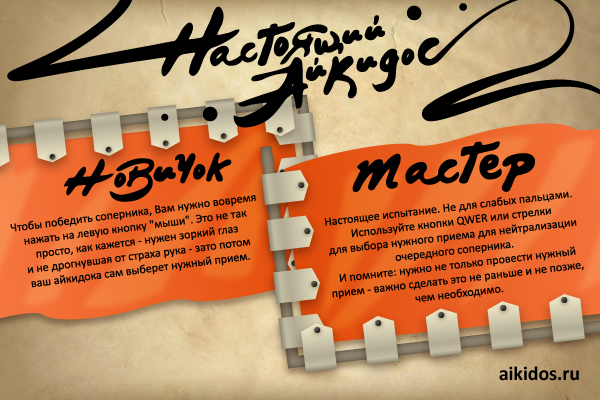
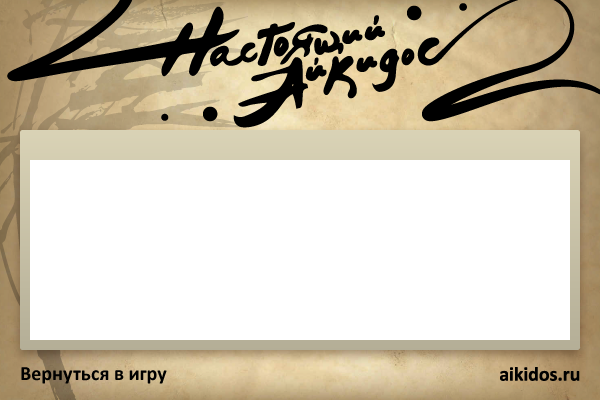
style-feat: change start window, made canvas some adaptive

diff --git a/src/components/AikidosGame.vue b/src/components/AikidosGame.vue
@@ -7,8 +7,10 @@
 <script>
 // import { loadScript } from "vue-plugin-load-script";
 
-var CANVAS_WIDTH = 600;
-var CANVAS_HEIGHT = 400;
+// Растягиваем канвас по размеру окна
+var CANVAS_WIDTH = window.innerWidth; // 600
+var CANVAS_HEIGHT = window.innerHeight; // 400
+var FIGHT_AREA_WIDTH = 400;
 var FPS = 25;
 var INC = 0.5;
 var ACCUMULATOR = 0;
@@ -135,6 +137,10 @@ function CResourceImage(src) {
     };
     //	this._image.addEventListener('load',function() { on_load.on_res_load.call(on_load) },false);
     this._image.src = this._src;
+    if (this._src.indexOf("novice_background") != -1) {
+      this._image.style = "min-width: 6000px; object-fit: cover";
+      console.log(this._image.style);
+    }
   };
 }
 
@@ -386,7 +392,7 @@ function draw_number(res, x, y, w, h, score) {
   var digit;
   var i = 1;
 
-  if (score == 0)
+  if (score == 0) {
     context2D.drawImage(
       resource_manager.res_list[res]._image,
       0,
@@ -398,7 +404,7 @@ function draw_number(res, x, y, w, h, score) {
       w,
       h
     );
-  else
+  } else
     while (digit_score) {
       digit_score = (digit_score / 10) | 0;
       pow10 = Math.pow(10, i);
@@ -424,12 +430,24 @@ function render() {
   context2D.fillStyle = "#000000";
   context2D.fillRect(0, 0, CANVAS_WIDTH, CANVAS_HEIGHT);
   if (stage == -2 || pre_load_timer >= 0) {
-    context2D.drawImage(resource_manager.res_list[1]._image, 0, 0);
+    // Растягиваем стартовый загрузочный экран
+    context2D.drawImage(
+      resource_manager.res_list[1]._image,
+      0,
+      0,
+      CANVAS_WIDTH,
+      600
+    );
+    //  context2D.drawImage(
+    //   resource_manager.res_list[1]._image,
+    //   0,
+    //   0,
+    // );
 
     context2D.save();
-    context2D.translate(414 + 15.5, 343 + 14);
+    context2D.translate(414 + 25.5, 343 + 14);
     context2D.rotate(load_angle);
-    context2D.drawImage(resource_manager.res_list[0]._image, -15.5, -14);
+    context2D.drawImage(resource_manager.res_list[0]._image, -25.5, -14);
     context2D.restore();
     load_angle -= Math.PI / 20;
 
@@ -437,7 +455,16 @@ function render() {
 
     if (pre_load_timer > 2000 && stage == -1) pre_load_timer = -1;
   } else if (stage == -1) {
-    context2D.drawImage(resource_manager.res_list[2]._image, 0, 0);
+    // Растягиваем меню
+    // context2D.drawImage(resource_manager.res_list[2]._image, 0, 0);
+    context2D.drawImage(
+      resource_manager.res_list[2]._image,
+      0,
+      0,
+      CANVAS_WIDTH,
+      600
+    );
+
     if (show_masters)
       context2D.drawImage(resource_manager.res_list[6]._image, 0, 354);
     if (novice_highlight)
@@ -517,10 +544,13 @@ function render() {
 		context2D.fillStyle='#112233';
 		roundRect(context2D,10,10,100,100,3,true,false);*/
   } else {
+    // Растягиваем фон во время боя по размеру канваса
     context2D.drawImage(
       resource_manager.res_list[current_game_type == 0 ? 4 : 5]._image,
       0,
-      0
+      0,
+      CANVAS_WIDTH,
+      FIGHT_AREA_WIDTH
     );
     if (current_game_type == 0) {
       if (game_mouse)
@@ -543,7 +573,9 @@ function render() {
 
     var score = ((current_score * FPS) / 1000) | 0;
 
-    draw_number(12, 580, 20, 24, 32, score);
+    // Перемещаем отрисовку очков к левому углу
+    draw_number(12, CANVAS_WIDTH - 30, 20, 24, 32, score);
+    // draw_number(12, CANVAS_WIDTH - 100, 20, 24, 32, score);
 
     var qu = ((score / QU_DELTA) | 0) + 1;
     qu = Math.max(11 - qu, 1);
@@ -763,14 +795,15 @@ function OnMouseMove(e) {
     show_masters = false;
     choose_url = false;
 
+    // Убираем подсветку карточек режимов игры и кнопки списка лучших мастеров
     if (x > 4 && y > 139 && x < 266 && y < 283) {
-      novice_highlight = true;
+      // novice_highlight = true;
     }
     if (x > 311 && y > 161 && x < 595 && y < 308) {
-      master_highlight = true;
+      // master_highlight = true;
     }
     if (x > 20 && y > 363 && x < 236 && y < 386) {
-      show_masters = true;
+      // show_masters = true;
     }
     if (x > 499 && y > 363 && x < 580 && y < 386) {
       choose_url = true;
@@ -843,8 +876,9 @@ function OnMouseUp(e) {
   var x = e.offsetX == undefined ? e.layerX : e.offsetX;
   var y = e.offsetY == undefined ? e.layerY : e.offsetY;
 
+  // Перемещаем кнопку для начала игры в нижний левый угол
   if (stage == -1 && pre_load_timer < 0) {
-    if (x > 4 && y > 139 && x < 266 && y < 283) {
+    if (x > 10 && y > 550 && x < 275 && y < 600) {
       start_game(0);
     }
     if (x > 311 && y > 161 && x < 595 && y < 308) {

diff --git a/public/aikidos/css/core.css b/public/aikidos/css/core.css
@@ -1,28 +1,45 @@
-#game{
-	/*position: relative;
+#game {
+  /*position: relative;
 	left: 0;
 	top: 00px;*/
-	width: 600px;
-	height: 400px;
+  /* width: 600px; */
+  /* height: 400px; */
+  width: 100vw;
+  height: 100vh;
 }
 
-#game canvas{ 
-	/*position: relative;
+#game canvas {
+  /*position: relative;
 	top: 0;
 	left: 0;
 	z-index: 0;*/
 }
 
-#game input{ 
-	position: relative;
-	border: 10px solid black; 
-	outline:none;
-	text-align:center;
-	z-index: 1;
+#game input {
+  position: relative;
+  border: 10px solid black;
+  outline: none;
+  text-align: center;
+  z-index: 1;
 }
 
-.page{ 
-	position: relative;
-	width: inherit;
-	height: inherit;
+.page {
+  position: relative;
+  width: inherit;
+  height: inherit;
 }
+
+* {
+  margin: 0;
+  padding: 0;
+} /* to remove the top and left whitespace */
+
+html,
+body {
+  width: 100%;
+  height: 100%;
+} /* just to be sure these are full screen*/
+
+canvas {
+  display: block;
+} /* To remove the scrollbars */

diff --git a/public/js/core.js b/public/js/core.js
@@ -1073,7 +1073,9 @@ function pre_resource_loaded() {
 
   timer = setInterval(draw, 1000 / FPS);
 
-  resource_manager.add_image(REL_PATH + "images/choose_game_type.png");
+  // resource_manager.add_image(REL_PATH + "images/choose_game_type.png"); // 2
+
+  resource_manager.add_image(REL_PATH + "images/start_screen.png"); // 2. Вместо того меню что было подгружаем это изображение
   resource_manager.add_image(REL_PATH + "images/records_background.png");
   resource_manager.add_image(REL_PATH + "images/novice_background.png");
   resource_manager.add_image(REL_PATH + "images/master_background.png");
